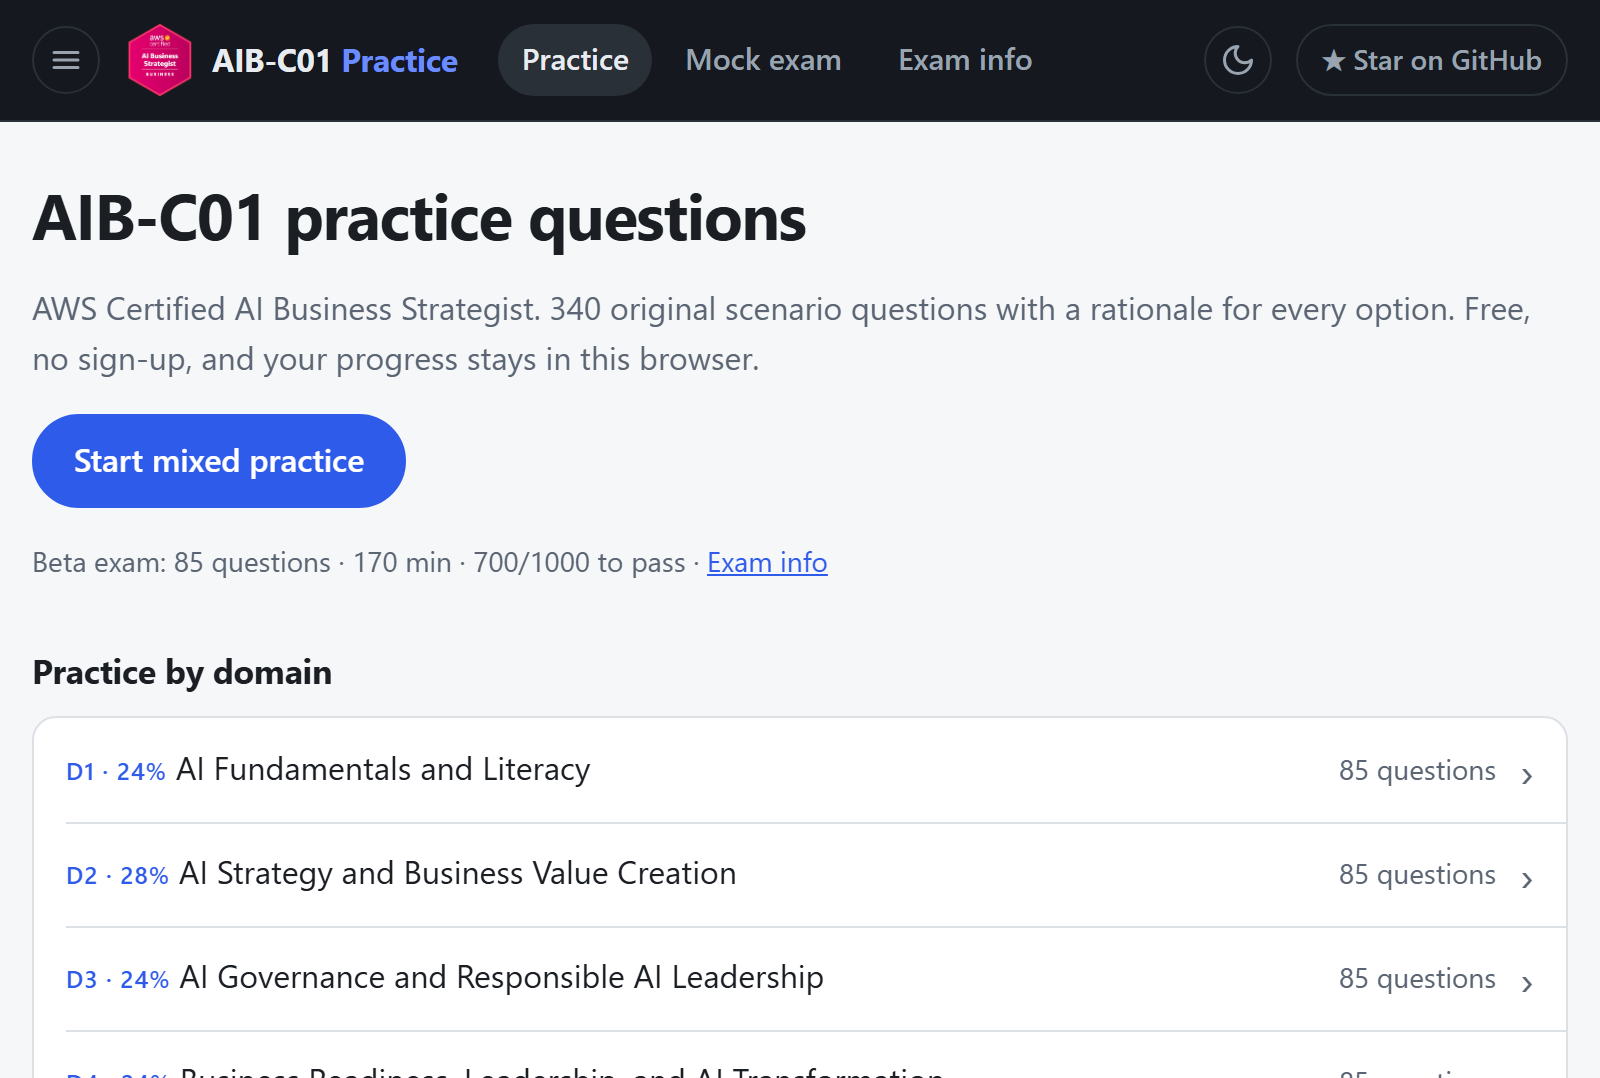
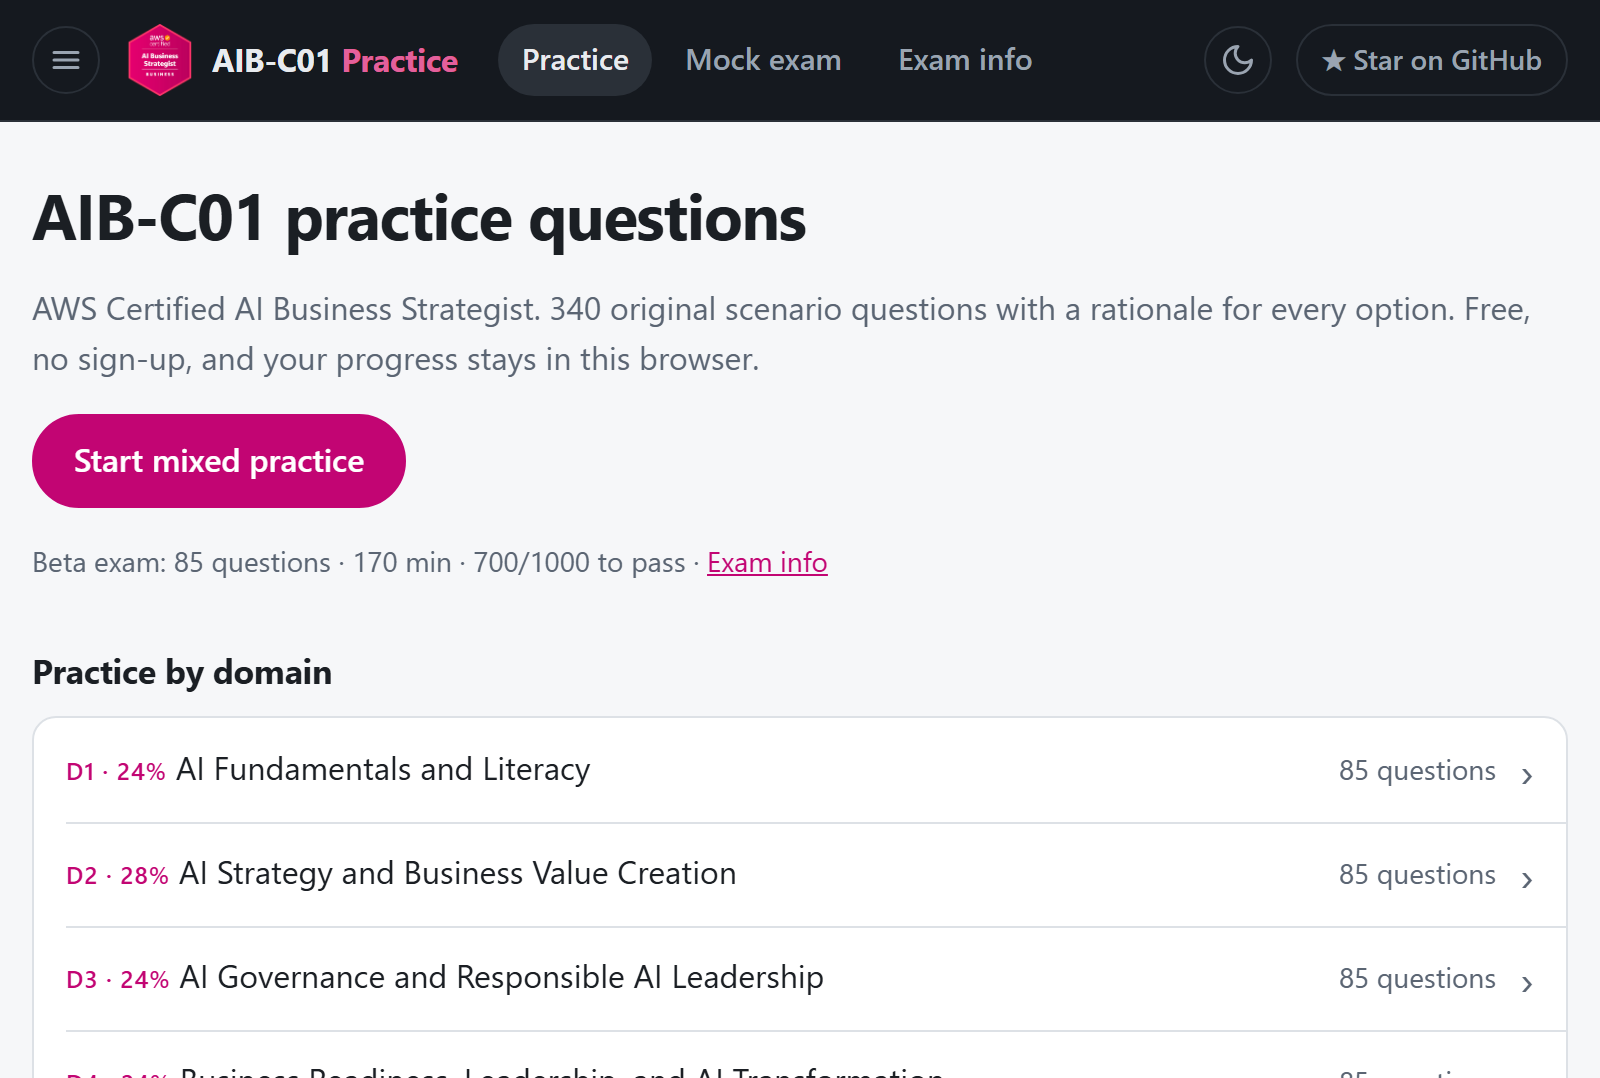
Match the theme colour to the badge

diff --git a/index.html b/index.html
@@ -15,6 +15,9 @@
 <link rel="icon" href="docs/logo.png">
 <script>{ let t; try { t = JSON.parse(localStorage.getItem('aib:theme')); } catch {} document.documentElement.dataset.theme = t || (matchMedia('(prefers-color-scheme: dark)').matches ? 'dark' : 'light'); }</script>
 <link rel="stylesheet" href="style.css">
+<!-- Business tier pink, matching the badge. style.css is shared by every practice site and defaults to Associate blue;
+     these are the same lightness and strength as that blue, with only the hue changed. The header always uses the dark value. -->
+<style>:root { --accent: #c20573; } :root[data-theme="dark"], header { --accent: #e4609b; }</style>
 </head>
 <body>
 <header>
